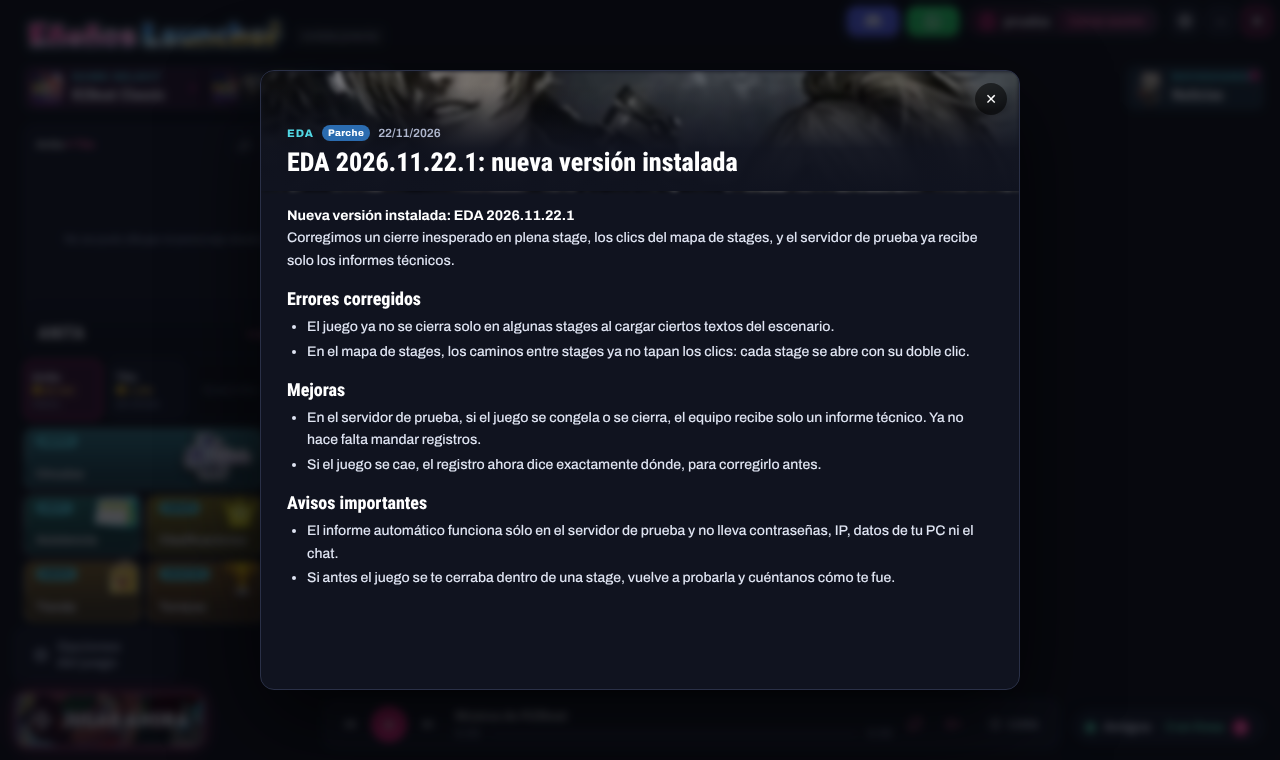
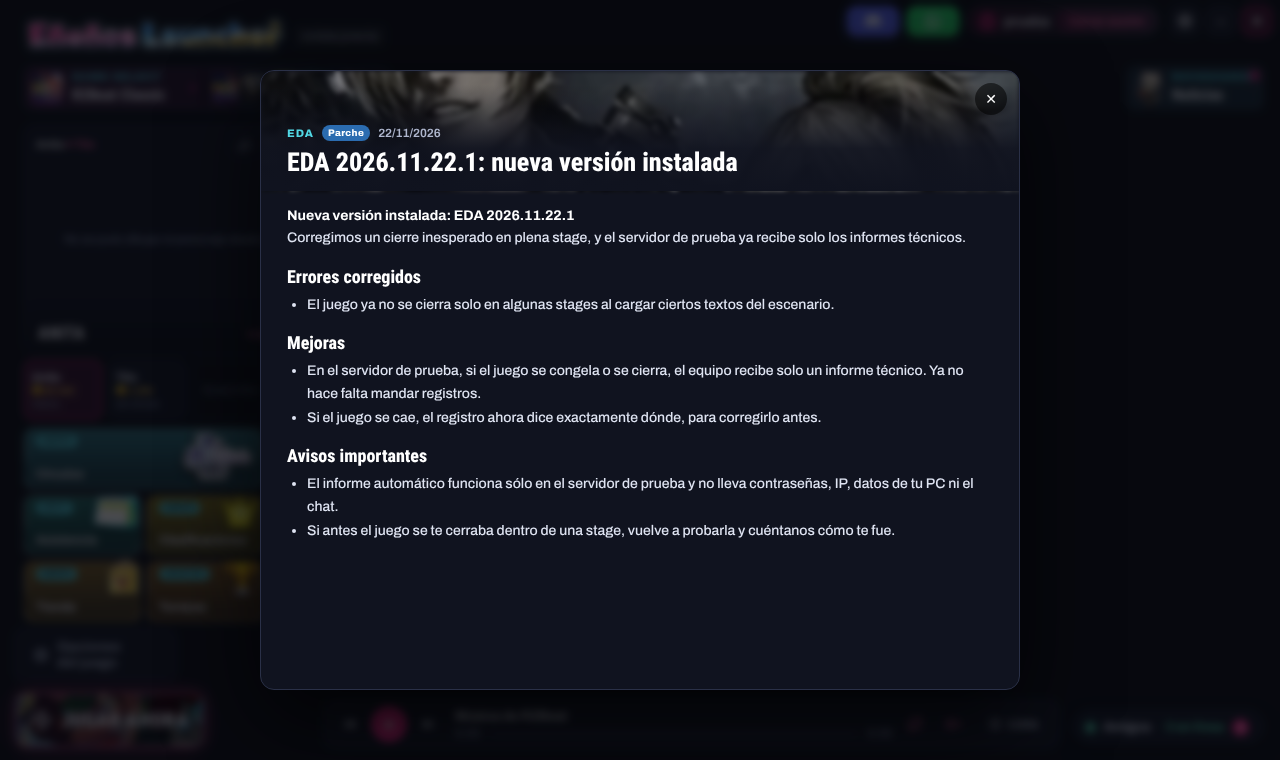
NOVEDADES 2026.11.22.1: sin el selector (ya salió en TEST 2026.11.21) y con los resultados de EDA-PRUEBA-DIAG
Claude-Session: https://claude.ai/code/session_01Fzdfxgv1CxAqo91wt7zwuc

Changed region(s): [[0.2188, 0.3329, 0.75, 0.7868], [0.4688, 0.3026, 0.7812, 0.3329]]

diff --git a/documentacion/VERSIONES.md b/documentacion/VERSIONES.md
@@ -92,10 +92,13 @@ commit 04e141d): 0.5.1 (selector) + 0.5.2 (las llamadas sin resolver / mal resue
 |---|---|---|
 | La caída 0x7F4626 | EDA-PRUEBA-APIS, dll 0.5.1-candidata e2bf4df2 (21-nov 18:17–18:21) | ✅ se reproduce sin la reparación; con ella `setlocale("korean")` vuelve; 1 Stage sin errores |
 | Pruebas sin juego | `prueba_apis.c/.py`, `prueba_selector.c`, `prueba_diag.c/.py`, `diag_partida control`, server | ✅ (CI) |
-| El diagnóstico de punta a punta | EDA-PRUEBA-DIAG (server local, dll 0.5.3) | pendiente: el informe dice si pasa |
-| FPS con y sin diagnóstico | EDA-PRUEBA-DIAG sin / con | pendiente |
+| El diagnóstico de punta a punta | EDA-PRUEBA-DIAG (server local, dll 0.5.3 a9678cda, 21-nov 19:15) | ✅ 7 lotes, 16 eventos, 0 fallos, el más lento 32 ms; el server los guardó y diag_partida los puso en su partida |
+| FPS con y sin diagnóstico | EDA-PRUEBA-DIAG sin / con (1 Stage cada una, sin tope) | ✅ sin 148 (mín 66) · con 161 (mín 85): sin pérdida medible (la diferencia entre dos partidas es de ±10 %) |
+| La caída 0x7F4626 con la dll final | EDA-PRUEBA-DIAG (las dos veces) | ✅ `setlocale("korean")` vuelve, sin errores |
 | El POP-UP | `launcher/popup-novedades/probar_popup.js` con el Launcher.exe de TEST | ✅ 14/14 en la pantalla del launcher (falta el launcher recompilado por su dueño) |
 | Partida de DOS en TEST | — | pendiente (después del despliegue autorizado) |
 
+La versión ANTERIOR es **2026.11.21** (TEST, publicada el 21-nov ~19:00 con la dll 0.5.1 del selector: el launcher de la
+PC de pruebas la bajó a las 19:02). Por eso las novedades de 2026.11.22.1 ya NO repiten el arreglo del selector.
 Si se publica otro día, la versión es la de ESE día: `AAAA.MM.DD.1` (o `.2`, `.3`… si ya salió una ese día), siempre
-mayor que la anterior (`2026.11.19` en los launchers de hoy); `version_cliente.py revisar` lo exige.
+mayor que la anterior; `version_cliente.py revisar` lo exige.
